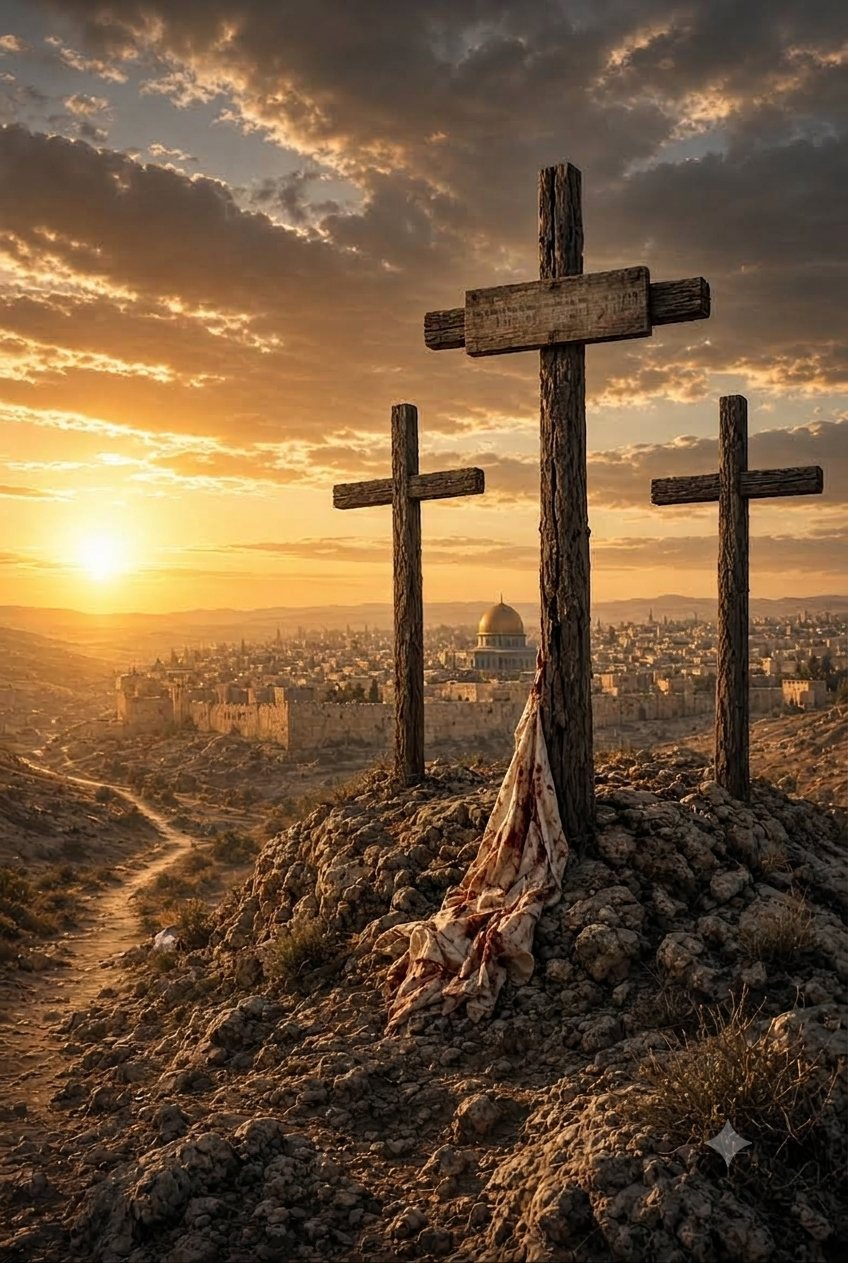
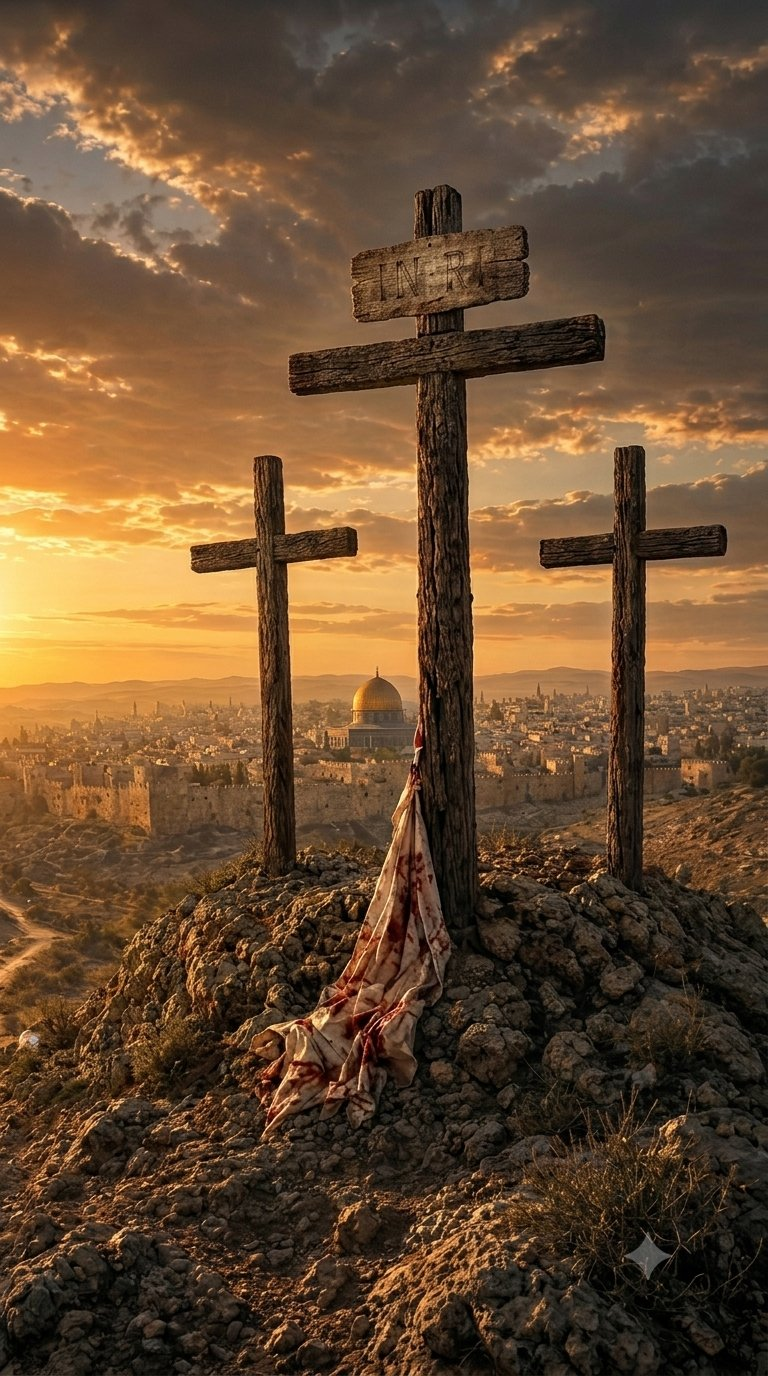
Update Calvary art: titulus above the crossbar (INRI)
Replace the Calvary scene images (both orientations) with corrected
versions where the sign sits above the crossbar, as the historical
titulus did, reading INRI. Portrait uses the ~9:16 crop; landscape uses
the wide frame. Filenames and wiring are unchanged — only the bundled
JPEGs are swapped. Same-origin export verified in both orientations.

Bumps sw.js CACHE_NAME to v27.05 so clients fetch the new images.

Claude-Session: https://claude.ai/code/session_014KDKJsTeKH6bT2mfBS1YsQ

diff --git a/sw.js b/sw.js
@@ -8,7 +8,7 @@
 // Bump CACHE_NAME on every deploy (either kind) — it invalidates the cache
 // and is read back by the app (refreshAppVersion) for the Settings display.
 
-const CACHE_NAME = 'fbckjv-bible-v27.04';
+const CACHE_NAME = 'fbckjv-bible-v27.05';
 
 // Bible maps + the concordance and Bible-names indexes — bundled static
 // assets, precached so they work offline.
